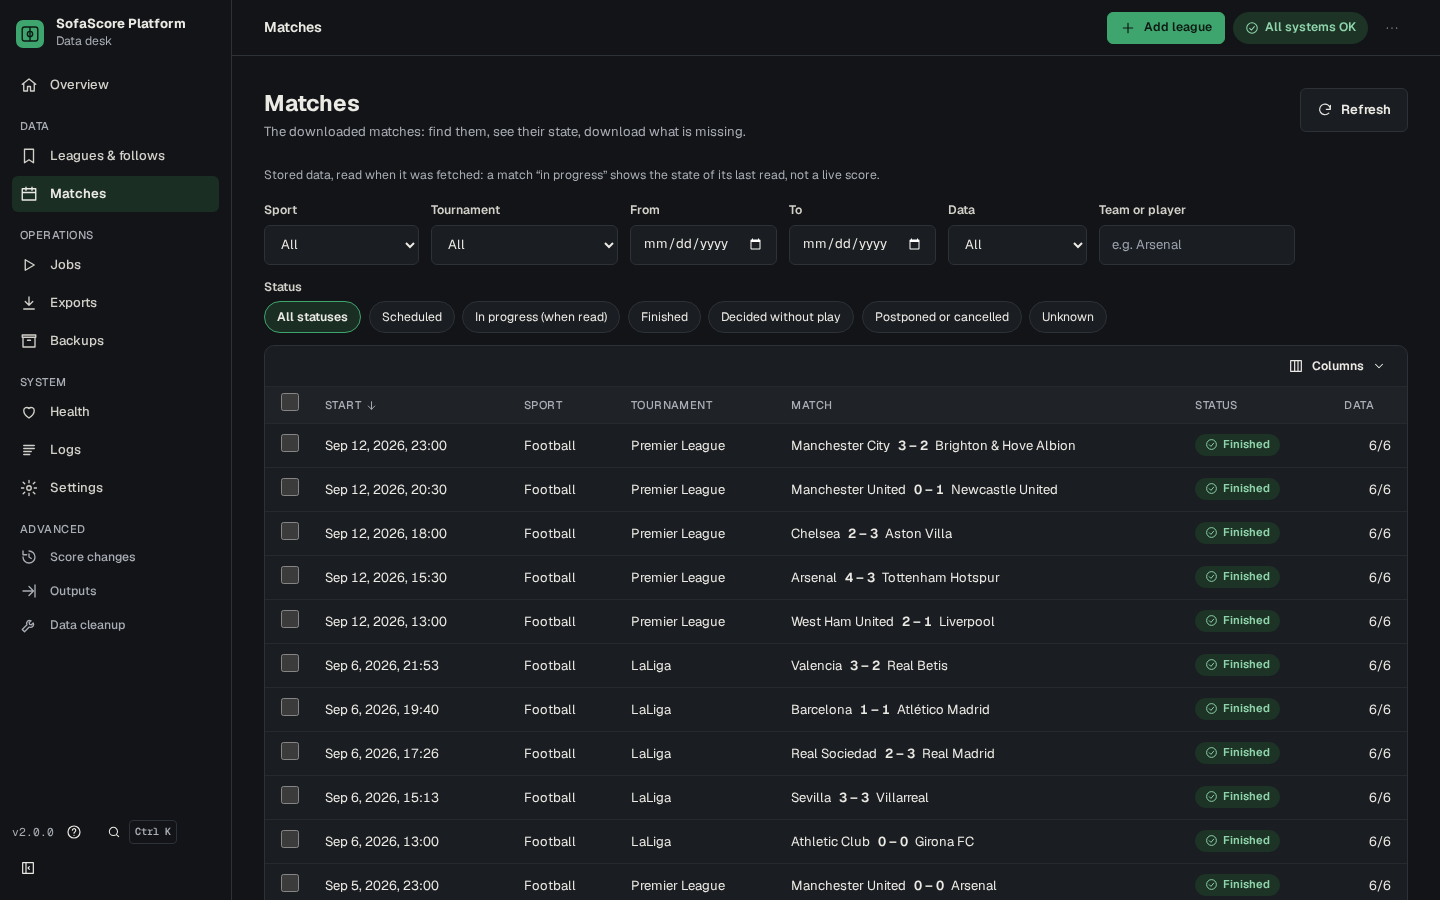
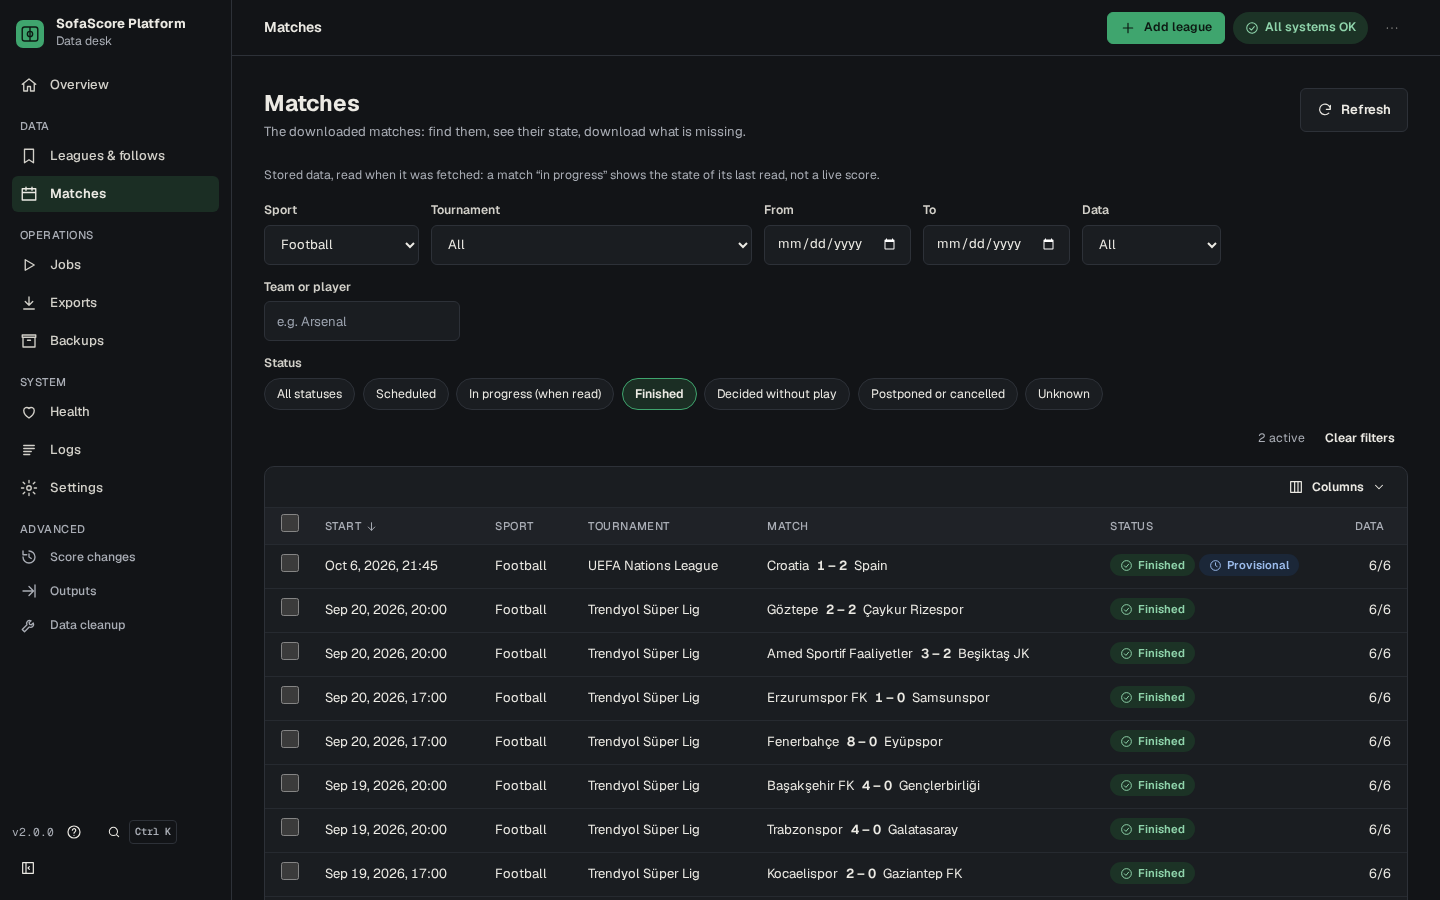
docs(readme): 3.0.0 released from source; screenshots of real data
Both READMEs: the five screenshots in docs/images/ are replaced by the ones taken on
2026-10-08 against the real SofaScore in the English UI (lossless WebP, 1440x900, 32 to
46 KB each, pixel-identical to the PNGs), with new alt texts and captions and a note that
says so. The "3.0.0 is in preparation" note becomes "3.0.0 is released from source" (no
PyPI). The ssc watch paragraph says that in set sports a live.score_changed is a set won,
not a game or a point (FX-27, V7). Upgrading from 2.x: pip install -e . after every
update, the import package rename, and the backup scopes deprecated next to the main.py
flags and the /api routes, removed in 3.1. All 86 relative links and anchors of both
files resolve.

diff --git a/README.tr.md b/README.tr.md
@@ -10,7 +10,7 @@
 
 Tek çekirdek, üç yüz: bir **Python kütüphanesi**, sunucular ve otomasyon için **`ssc` komut satırı** ve üzerinde bir **web arayüzü** bulunan sürümlü bir **HTTP API**. Kendi bilgisayarınızda ya da sunucunuzda çalışır.
 
-> **3.0.0 hazırlanıyor.** Bu README, `main` dalında bulunan ama henüz yayımlanmamış 3.0.0'ı anlatır: sürüm numarası hâlâ 2.0.0'dır, yayımlanmış bir Docker imajı ya da sürüm arşivi yoktur. Sürüm çıkana kadar kaynaktan kurun (`docker compose up -d --build` ya da aşağıdaki pip adımları).
+> **3.0.0 kaynaktan kurulan bir sürüm olarak yayımlandı.** Bir checkout'tan kurun (aşağıdaki Docker ya da pip adımları); GitHub'daki her sürümde derlenmiş web arayüzünü içeren bir kaynak arşivi de vardır, Docker imajı ise `ghcr.io/tunjayoff/sofascore_scraper`'dır. PyPI'de paket yoktur. 2.x'ten geçiyorsanız: [2.x'ten yükseltme](#2xten-yükseltme).
 
 Resmî değildir, SofaScore ile bir bağı yoktur; bkz. [sorumluluk reddi](#sorumluluk-reddi).
 
@@ -32,16 +32,16 @@ Resmî değildir, SofaScore ile bir bağı yoktur; bkz. [sorumluluk reddi](#soru
 
 ## Ekran görüntüleri
 
-![Genel bakış: saklanan maçlar, SofaScore bağlantısı, servisler ve son işler](docs/images/overview.webp)
+![Gerçek veriyle genel bakış: saklanan 804 maç, 20 sporda 41 takip, SofaScore bağlantısı, servisler, son işler ve son skor değişikliği](docs/images/overview.webp)
 
 | | |
 |---|---|
-| ![Lig ekle: SofaScore'da adla arama ya da adresteki kimliği girme](docs/images/add-league.webp) | ![Biten bir futbol maçı ve devrelere göre istatistikleri](docs/images/match-statistics.webp) |
-| **Lig ekle**: adla arayın ya da SofaScore kimliğini girin, sonra sezonları ve verileri seçin. | **Bir maç**: devrelere göre skor, istatistikler, kadrolar, olaylar ve ham veri. |
-| ![Normalleştirilmiş veri kümeleri ve CSV, JSONL, Parquet, SQLite biçimleriyle yeni dışa aktarım penceresi](docs/images/export-dialog.webp) | ![Spor, turnuva, tarih, veri ve duruma göre süzgeçleriyle koyu temada maç listesi](docs/images/matches-dark.webp) |
+| ![Lig ya da takım ekle: "premier" yazınca SofaScore'un ligleri sporları ve ülkeleriyle önerilir](docs/images/add-league.webp) | ![Paris Saint-Germain ile Tottenham Hotspur, 2025 UEFA Süper Kupa finali, 2-2 ve penaltılarla 4-3, istatistikleriyle](docs/images/match-statistics.webp) |
+| **Lig ekle**: yazarken öneriler ya da SofaScore kimliği, sonra sezonlar ve veriler. | **Bir maç**: skor, devrelere göre istatistikler, kadrolar, olaylar, oranlar ve ham veri. |
+| ![Yeni dışa aktarım penceresi: normalleştirilmiş veri, maç tablosu ya da SofaScore'un özgün verisi; CSV, JSONL, Parquet ve SQLite biçimleri](docs/images/export-dialog.webp) | ![Koyu temada, biten futbol maçlarına süzülmüş maç listesi; spor, turnuva, tarih, takım, veri ve duruma göre süzgeçler](docs/images/matches-dark.webp) |
 | **Dışa aktarımlar**: normalleştirilmiş veri, maç tablosu ya da ham yanıtlar. | Koyu temada **Maçlar**. |
 
-Ekran görüntüleri İngilizce arayüzden alındı ve gerçek SofaScore verisi değil, sentetik bir demo veri kümesi kullanır.
+Ekran görüntüleri İngilizce arayüzden alındı ve 2026-10-08'de indirilmiş gerçek SofaScore verisini gösterir.
 
 ## Hızlı başlangıç
 
@@ -204,7 +204,7 @@ ssc export --out matches.csv                               # 2.x'in geniş CSV's
 
 ## Canlı izleme
 
-`ssc watch` canlı servistir: canlı maçları izleyen ve değişikliklerini (`live.status_changed`, `live.score_changed`, `live.stuck`) olay günlüğüne ve yapılandırılmış hedeflere yazan, ön planda çalışan bir süreç. Web arayüzünün parçası değildir.
+`ssc watch` canlı servistir: canlı maçları izleyen ve değişikliklerini (`live.status_changed`, `live.score_changed`, `live.stuck`) olay günlüğüne ve yapılandırılmış hedeflere yazan, ön planda çalışan bir süreç. Web arayüzünün parçası değildir. Setlerle oynanan sporlarda (tenis, masa tenisi, voleybol, badminton, padel) bir `live.score_changed` kazanılan bir settir; set içindeki bir oyun ya da sayı değildir.
 
 ```bash
 ssc watch                                                    # canlı olarak işaretli takipler
@@ -242,13 +242,15 @@ Uygulama yalnızca izin verilen sunucu adlarına yanıt verir, başka sitelerin 
 ```bash
 git pull
 pip install -r requirements.txt -c constraints.txt
+pip install -e .          # her güncellemeden sonra yeniden: içe aktarılan paket artık sofascore_scraper
 cd frontend && npm install && npm run build && cd ..
 ssc migrate --dry-run     # isteğe bağlı: yeni düzene neyin taşınacağı
 ```
 
 - **Veriler**: hiçbir şey kendiliğinden taşınmaz. Eski veriler bulundukları yerden okunur; yeni yazmalar yeni düzeni kullanır. `ssc migrate` eski klasörleri dönüştürüp doğrular ve eskilerini korur; `ssc migrate --delete-legacy --yes` doğrulanmış eski kopyaları sonradan siler.
 - **Terminal menüsü kaldırıldı.** `python main.py` argümansız çalıştırılınca kısa bir yardım yazar ve `2` ile çıkar. Web arayüzünü ya da betikler için `ssc`'yi kullanın.
-- **Bir sürüm daha çalışacak, sonra kalkacak olanlar**: `main.py` seçenekleri (`--headless --update-all` `ssc sync`'i, `--refresh-only` `ssc refresh`'i, `--watch` `ssc watch --source poll --stdout`'u, `--web` `ssc serve`'ü çalıştırır, …; her biri çalıştırdığı komutu yazar) ve `/api/...` altındaki 2.x yolları; bunlar bir `Deprecation` başlığı ve `/api/v1`'deki karşılıklarını gösteren bir `Link` ile yanıt verir. Çıkış kodları yeni tabloya uyar (devre kesicinin durdurduğu iş artık `2` değil `4`).
+- **İçe aktarılan paket `sofascore_scraper`'dır** (önceden `src`'ydi ve takma adı yoktur): kendi systemd birimleriniz ve betikleriniz `python -m src.cli.main` yerine `python -m sofascore_scraper.cli.main` çalıştırır, kütüphane kodu `sofascore_scraper`'ı içe aktarır.
+- **3.0.0'da kullanımdan kalkan, 3.1'de kaldırılacak olanlar**: `main.py` seçenekleri (`--headless --update-all` `ssc sync`'i, `--refresh-only` `ssc refresh`'i, `--watch` `ssc watch --source poll --stdout`'u, `--web` `ssc serve`'ü çalıştırır, …; her biri çalıştırdığı komutu yazar), `/api/...` altındaki 2.x yolları (bunlar bir `Deprecation` başlığı ve `/api/v1`'deki karşılıklarını gösteren bir `Link` ile yanıt verir) ve `config`, `seasons`, `matches`, `match_details` yedek kapsamları (yerlerine `all`, `state` ya da `data`). Çıkış kodları yeni tabloya uyar (devre kesicinin durdurduğu iş artık `2` değil `4`).
 - **Ayarlar**: `.env` çalışmaya devam eder; `ssc config init --from-legacy > sofascore.toml` bugünkü `.env`'i ve `config/leagues.txt`'yi bir yapılandırma dosyası olarak yazar. `config/leagues.txt`'deki ligler indirilmeye devam eder; ligin sayfasındaki **Buraya taşı** onu uygulamaya taşır.
 
 Değişikliklerin tam listesi [CHANGELOG.md](CHANGELOG.md) dosyasındadır (İngilizce).

diff --git a/README.md b/README.md
@@ -10,7 +10,7 @@
 
 One core, three faces: a **Python library**, the **`ssc` command line** for servers and automation, and a versioned **HTTP API** with a **web app** on top. It runs on your own machine or server.
 
-> **3.0.0 is in preparation.** This README describes 3.0.0, which is on `main` but not released yet: the version number still says 2.0.0, and there is no published Docker image or release archive. Until the release, build from a checkout (`docker compose up -d --build`, or the pip steps below).
+> **3.0.0 is released from source.** Install it from a checkout (the Docker or pip steps below); each release on GitHub also has a source archive with the built web app, and its Docker image is `ghcr.io/tunjayoff/sofascore_scraper`. There is no package on PyPI. Coming from 2.x: [Upgrading from 2.x](#upgrading-from-2x).
 
 Unofficial and not affiliated with SofaScore; see the [disclaimer](#disclaimer).
 
@@ -32,16 +32,16 @@ Unofficial and not affiliated with SofaScore; see the [disclaimer](#disclaimer).
 
 ## Screenshots
 
-![Overview: matches stored, the connection to SofaScore, the services and the recent jobs](docs/images/overview.webp)
+![Overview with real data: 804 matches stored, 41 follows in 20 sports, the connection to SofaScore, the services, the recent jobs and the latest score change](docs/images/overview.webp)
 
 | | |
 |---|---|
-| ![Add league: search SofaScore by name, or enter the id from the address](docs/images/add-league.webp) | ![A finished football match with its statistics by period](docs/images/match-statistics.webp) |
-| **Add league**: search by name or enter the SofaScore id, then choose seasons and data. | **A match**: score by period, statistics, line-ups, incidents and the raw data. |
-| ![New export dialog with the normalized datasets and the CSV, JSONL, Parquet and SQLite formats](docs/images/export-dialog.webp) | ![The match list in the dark theme, with filters by sport, tournament, date, data and status](docs/images/matches-dark.webp) |
+| ![Add a league or team: typing "premier" suggests SofaScore's leagues with their sport and country](docs/images/add-league.webp) | ![Paris Saint-Germain against Tottenham Hotspur, the 2025 UEFA Super Cup final, 2-2 and 4-3 on penalties, with its statistics](docs/images/match-statistics.webp) |
+| **Add league**: suggestions while you type, or the SofaScore id, then seasons and data. | **A match**: score, statistics by period, line-ups, incidents, odds and the raw data. |
+| ![New export dialog: normalized data, the match table or SofaScore's original data, in the CSV, JSONL, Parquet and SQLite formats](docs/images/export-dialog.webp) | ![The match list in the dark theme, filtered to finished football matches, with filters by sport, tournament, date, team, data and status](docs/images/matches-dark.webp) |
 | **Exports**: normalized data, the match table or the raw payloads. | **Matches** in the dark theme. |
 
-The screenshots use a synthetic demo data set, not real SofaScore data.
+The screenshots show real SofaScore data, downloaded on 2026-10-08, in the English UI.
 
 ## Quick start
 
@@ -204,7 +204,7 @@ ssc export --out matches.csv                               # the 2.x wide CSV
 
 ## Live watching
 
-`ssc watch` is the live service: a foreground process that follows live matches and writes their changes (`live.status_changed`, `live.score_changed`, `live.stuck`) to the event log and to the configured sinks. It is not part of the web app.
+`ssc watch` is the live service: a foreground process that follows live matches and writes their changes (`live.status_changed`, `live.score_changed`, `live.stuck`) to the event log and to the configured sinks. It is not part of the web app. In set sports (tennis, table tennis, volleyball, badminton, padel) a `live.score_changed` is a set won, not a game or a point inside a set.
 
 ```bash
 ssc watch                                                    # follows marked live
@@ -242,13 +242,15 @@ The app itself answers only to allowed host names, refuses state-changing reques
 ```bash
 git pull
 pip install -r requirements.txt -c constraints.txt
+pip install -e .          # again after every update: the import package is now sofascore_scraper
 cd frontend && npm install && npm run build && cd ..
 ssc migrate --dry-run     # optional: what would move to the new layout
 ```
 
 - **Data**: nothing is moved on its own. Old data is read where it is; new writes use the new layout. `ssc migrate` converts and verifies the old folders and keeps them; `ssc migrate --delete-legacy --yes` removes verified old copies later.
 - **The terminal menu is gone.** `python main.py` without arguments prints a short help and exits with `2`. Use the web app, or `ssc` for scripts.
-- **Deprecated for one release**: the `main.py` flags (`--headless --update-all` runs `ssc sync`, `--refresh-only` runs `ssc refresh`, `--watch` runs `ssc watch --source poll --stdout`, `--web` runs `ssc serve`, …; each prints the command it ran), and the 2.x routes under `/api/...`, which answer with a `Deprecation` header and a `Link` to their `/api/v1` successor. Exit codes follow the new table (a breaker stop is `4`, no longer `2`).
+- **The import package is `sofascore_scraper`** (it was `src`, and there is no alias): your own systemd units and scripts run `python -m sofascore_scraper.cli.main` instead of `python -m src.cli.main`, and library code imports `sofascore_scraper`.
+- **Deprecated in 3.0.0, removed in 3.1**: the `main.py` flags (`--headless --update-all` runs `ssc sync`, `--refresh-only` runs `ssc refresh`, `--watch` runs `ssc watch --source poll --stdout`, `--web` runs `ssc serve`, …; each prints the command it ran), the 2.x routes under `/api/...`, which answer with a `Deprecation` header and a `Link` to their `/api/v1` successor, and the backup scopes `config`, `seasons`, `matches` and `match_details` (use `all`, `state` or `data`). Exit codes follow the new table (a breaker stop is `4`, no longer `2`).
 - **Settings**: `.env` keeps working; `ssc config init --from-legacy > sofascore.toml` writes today's `.env` and `config/leagues.txt` as a config file. Leagues in `config/leagues.txt` are still downloaded; **Move to here** on a league's page moves one into the app.
 
 The full list of changes is in [CHANGELOG.md](CHANGELOG.md).
